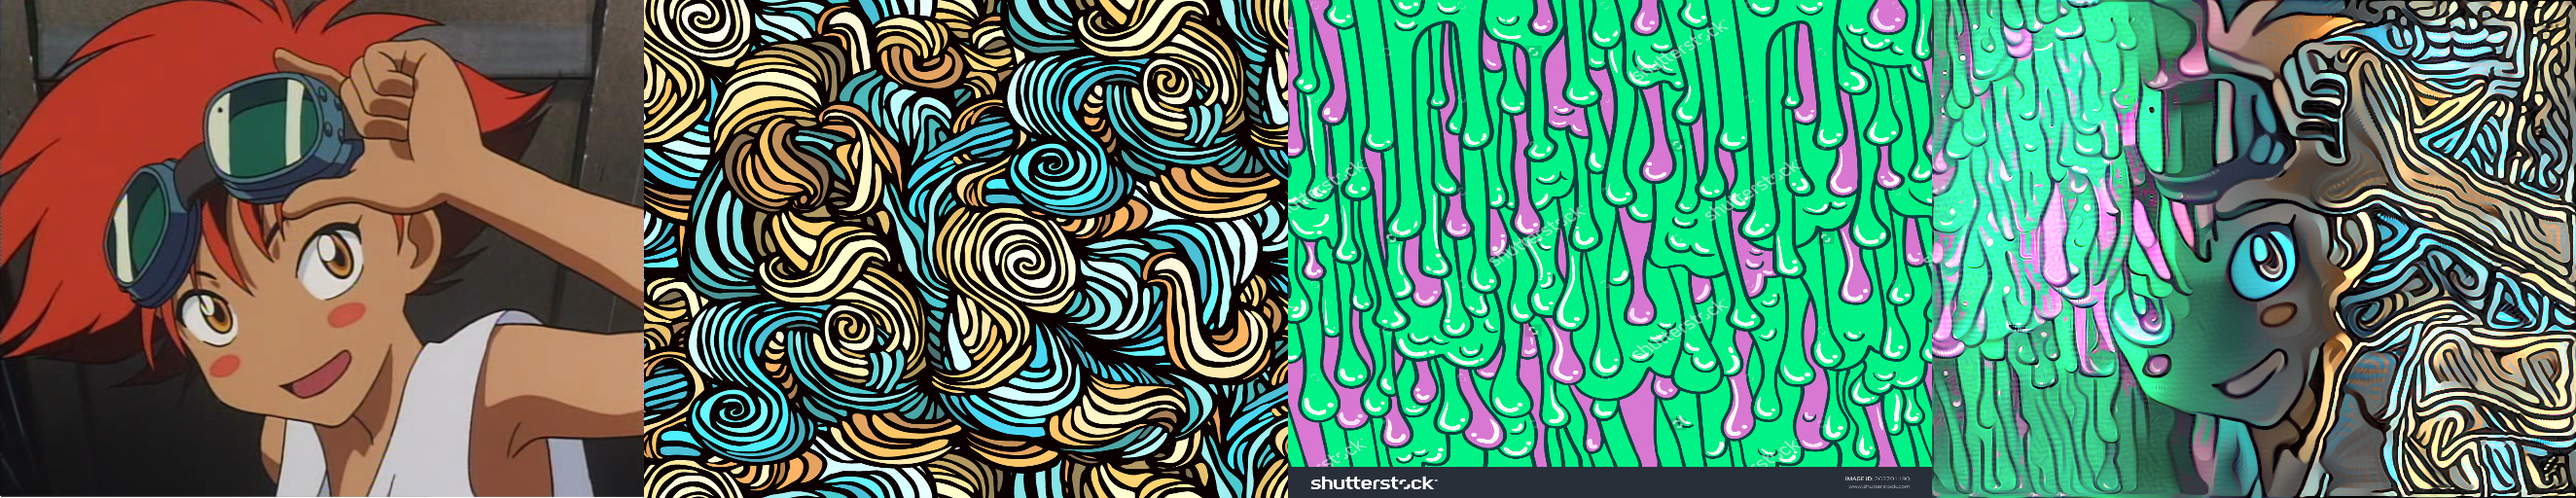
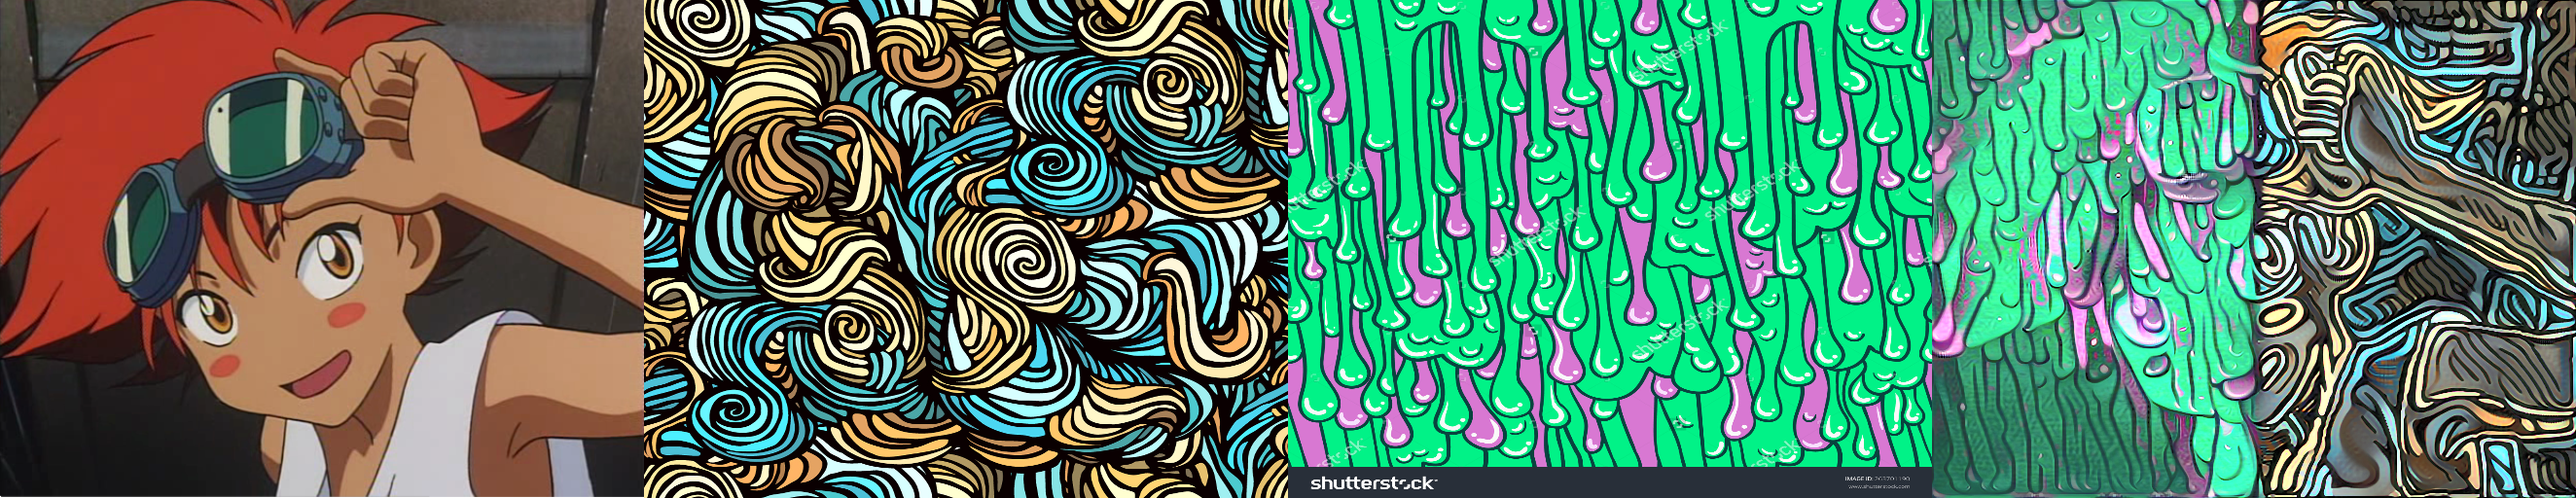
Minor tweaks, finished

Changed region(s): [[0.7432, 0.0, 1.0, 1.0]]

diff --git a/main.py b/main.py
@@ -466,8 +466,8 @@ if __name__ == '__main__':
     weight_contents = [1.0]
 
     style_layers = [ list(range(16)), list(range(16))]
-    multi_style = [styles["spaghetti"], styles["melt"]]
-    weight_styles = [5.0,5.0]
+    multi_style = [styles["flowers"], styles["monsters"]]
+    weight_styles = [10.0,10.0]
 
     # Resize to first content shape, also resizes style
     if FLAGS.resize > 0:
@@ -480,7 +480,7 @@ if __name__ == '__main__':
         multi_style = [cv2.resize(style, (multi_content[0].shape[1], (multi_content[0].shape[0]))) for style in multi_style]
 
 
-    mask1 = cv2.resize((cv2.imread("./masks/gradient_bw_hard.png",-1).astype(np.float32)/255.0),(multi_content[0].shape[1], multi_content[0].shape[0]))
+    mask1 = cv2.resize((cv2.imread("./masks/radial_bw.jpg",0).astype(np.float32)/255.0),(multi_content[0].shape[1], multi_content[0].shape[0]))
     mask2 = 1.0 - mask1
 
     """

diff --git a/README.md b/README.md
@@ -3,6 +3,7 @@
 ![Multi Style Transfer](/images/2.png)
 ![Multi Style Transfer](/images/3.jpg)
 ![Spatial Multi Style Transfer](/images/7.jpg)
+![Spatial Multi Style Transfer](/images/8.jpg)
 
 ## Features
 * Single Style Transfer
